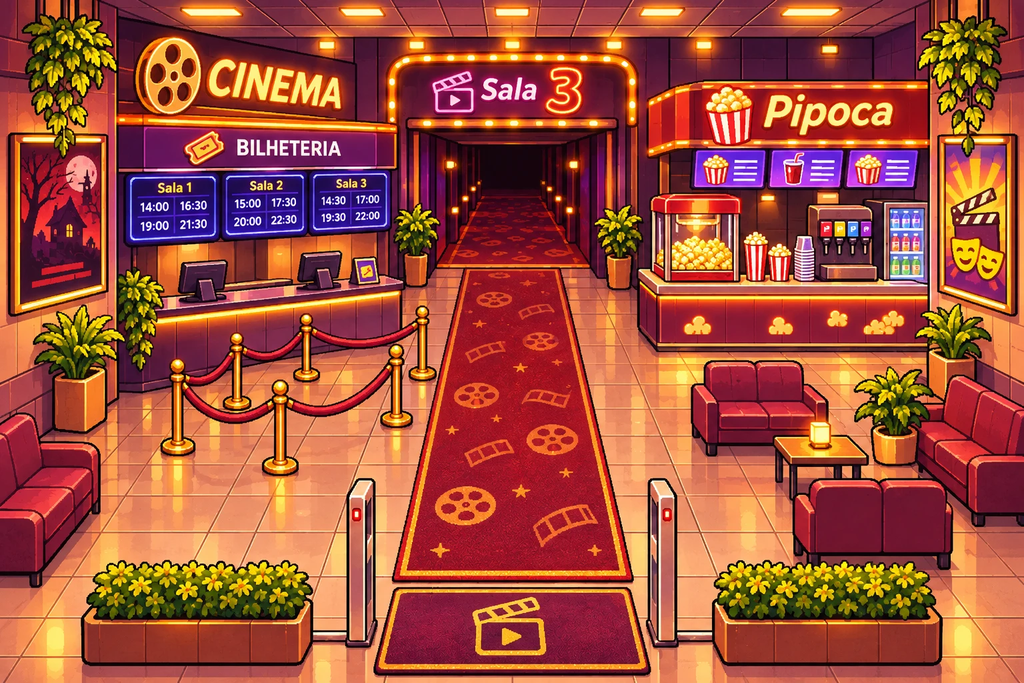
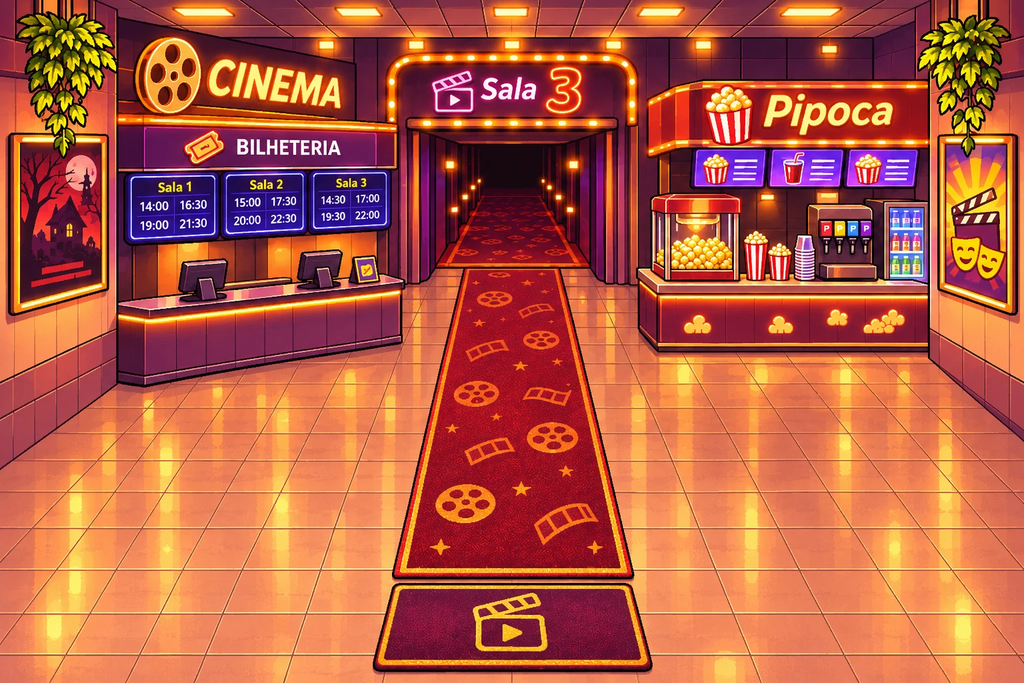
Cinema v2: cenário vazio + objetos da folha
Claude-Session: https://claude.ai/code/session_01PDyLU6Huw5amytFREh1vA2

diff --git a/backups/cinema-v1/cinema.map.ts b/backups/cinema-v1/cinema.map.ts
@@ -1,0 +1,176 @@
+import { T } from '@/world/tiles';
+import type { MapDef, TileRect } from '@/world/MapTypes';
+import type { Script } from '@/core/script';
+import { QuestSystem } from '@/systems/QuestSystem';
+
+const Q = 'dq-e3';
+/** Retângulo no cenário ORIGINAL (art-source/maps/duque-cinema.webp, 1536x1024). 48 px = 1 tile. */
+const R = (x0: number, y0: number, x1: number, y1: number): TileRect => ({ x: x0 / 48, y: y0 / 48, w: (x1 - x0) / 48, h: (y1 - y0) / 48 });
+
+const scripts: Record<string, Script> = {
+  async chegada(ctx) {
+    ctx.follow('weng', true);
+    if (ctx.flag('dq-cine-1')) return;
+    ctx.setFlag('dq-cine-1');
+    // chegam pelo corredor do shopping, lá embaixo
+    ctx.follow('weng', false);
+    ctx.place('player', 14.6, 18.6, 'up');
+    ctx.place('weng', 16.4, 18.6, 'up');
+    await ctx.narrate('Caxias Shopping. Sábado à noite.');
+    await ctx.say('bella', 'Cheiro de pipoca. Esse é o melhor cheiro do mundo.');
+    ctx.face('weng', 'bella');
+    await ctx.say('weng', 'Já comprei os ingressos. Sala 3, Five Nights at Freddy\'s.');
+    await ctx.emote('weng', 'sweat');
+    await ctx.say('weng', '(E ela não pode desconfiar de NADA do que vem depois.)');
+    ctx.face('player', 'weng');
+    await ctx.say('bella', 'Você tá estranho. Tá com medo do filme?');
+    await ctx.say('weng', 'Eu? Medo? De um urso animatrônico? ...Um pouco.');
+    ctx.follow('weng', true);
+    ctx.toast('Pegue a pipoca no balcão da direita');
+  },
+
+  async filme(ctx) {
+    ctx.objective(Q, 'filme');
+    await ctx.fadeOut(600);
+    ctx.letterbox(true);
+    await ctx.narrate('Sala 3. As luzes se apagam...');
+    ctx.shake(400);
+    ctx.sfx('cancel');
+    await ctx.say('bella', 'AAAAH! (aperta o braço do Weng)');
+    await ctx.say('weng', '(Ela tá segurando meu braço. Melhor filme da minha vida.)');
+    ctx.shake(300);
+    await ctx.say('bella', 'Não olha pra mim! Olha pro filme!');
+    await ctx.say('weng', 'Tem filme passando?');
+    await ctx.narrate('Duas horas, um balde de pipoca e quarenta e três apertões depois...');
+    ctx.letterbox(false);
+    ctx.place('player', 15.4, 8.6, 'right');
+    ctx.place('weng', 17.0, 8.6, 'left');
+    await ctx.fadeIn(600);
+    await ctx.say('weng', 'E aí? Deu medo?');
+    await ctx.say('bella', 'Medo nenhum. Eu só apertei o seu braço umas... quarenta vezes.');
+    await ctx.say('weng', 'Quarenta e três. Eu contei.');
+    await ctx.emote('bella', 'heart');
+    await ctx.say('bella', 'Bora tomar alguma coisa antes de ir embora?');
+    await ctx.emote('weng', 'sweat');
+    await ctx.say('weng', '(Ela não pode desconfiar de nada. Age normal, Weng. Normal.)');
+    ctx.follow('weng', true);
+    ctx.toast('Vá até a saída do cinema');
+  },
+
+  async saida(ctx) {
+    if (!QuestSystem.isActive(Q) || ctx.objectiveDone(Q, 'saida')) {
+      await ctx.teleport('duque-rua', 'from-multidao');
+      return;
+    }
+    if (!ctx.objectiveDone(Q, 'filme')) {
+      await ctx.say('bella', 'Ei! A gente nem viu o filme ainda. E a pipoca?!');
+      await ctx.move('player', ctx.playerTile().x, 18.4, 60);
+      return;
+    }
+    ctx.objective(Q, 'saida');
+    // a câmera sobe pra ver os dois acima da caixa de diálogo
+    const t = ctx.playerTile();
+    await ctx.frame(t.x, t.y, 400);
+    ctx.sfx('msg');
+    await ctx.emote('bella', 'exclaim');
+    await ctx.say('bella', 'Meu celular tá tocando. É a minha mãe.');
+    await ctx.say('mae-tel', 'BELLA! Vem pra casa AGORA! A sua irmã caiu da escada, rolou e saiu voando!');
+    await ctx.emote('bella', 'exclaim');
+    await ctx.say('bella', 'COMO ASSIM SAIU VOANDO, MÃE?!');
+    await ctx.say('mae-tel', '...E a sua avó também! Caiu da escada, rolou e saiu voando! As duas!');
+    await ctx.say('bella', 'As DUAS?! Mãe, que história é essa?!');
+    await ctx.say('mae-tel', 'Não discute! Vem logo, filha! Tchau!');
+    await ctx.emote('weng', 'sweat');
+    await ctx.say('weng', '(Sogra... criatividade nota mil. Credibilidade nota zero.)');
+    await ctx.say('bella', 'Ai, gente... tá bom. Tô indo.');
+    ctx.face('player', 'weng');
+    await ctx.emote('bella', 'sweat');
+    await ctx.say('bella', 'Desculpa, Weng. Logo hoje... eu tava tão feliz.');
+    await ctx.say('weng', 'Ei, relaxa. Eu te levo até em casa. Vai dar tudo certo.');
+    await ctx.emote('weng', 'note');
+    await ctx.say('weng', '(Vai dar MUITO certo.)');
+    await ctx.fadeOut(600);
+    await ctx.narrate('A Bella voltou pra Piabetá emburrada. O Weng, estranhamente tranquilo.');
+    ctx.objective(Q, 'casa');
+    await ctx.teleport('piabeta-casa-pedido', 'porta');
+  },
+
+  async bilheteria(ctx) {
+    await ctx.say('bella', 'Sala 3, sessão das 19:30. A gente escolheu a de terror. Corajosos.');
+  },
+  async pipoca(ctx) {
+    if (QuestSystem.isActive(Q) && !ctx.objectiveDone(Q, 'filme')) {
+      await ctx.say('atendente-cine', 'Boa noite! Vai querer qual?');
+      const c = await ctx.choose('bella', '(O balde é enorme...)', ['"Uma grande, com bastante manteiga!"', '"Uma grande e um refri de 1 litro!"']);
+      await ctx.say('atendente-cine', c === 0 ? 'Saindo uma grande, caprichada na manteiga!' : 'Grande e refrigerante gigante. Corajosos!');
+      ctx.sfx('pickup');
+      await ctx.emote('bella', 'heart');
+      await ctx.say('weng', 'Aposto que acaba antes do filme começar.');
+      await ctx.say('bella', 'Clássico.');
+      await ctx.say('weng', 'Bora? A sessão já vai começar.');
+      await scripts.filme(ctx);
+      return;
+    }
+    await ctx.say('weng', 'Pipoca grande. Que a gente comeu antes do filme começar.');
+    await ctx.say('bella', 'Clássico.');
+  },
+  async cartaz(ctx) {
+    await ctx.say('bella', 'Um cartaz de terror com uma casa mal-assombrada. Não, obrigada.');
+  },
+};
+
+/** 3º encontro — saguão do cinema do Caxias Shopping. */
+export const cinemaMap: MapDef = {
+  id: 'duque-cinema',
+  region: 'duque-de-caxias',
+  name: 'Cinema do Caxias Shopping',
+  indoor: true,
+  music: 'rota66',
+  background: '#2a1630',
+  art: 'native',
+  legend: { '.': T.WOOD },
+  ground: Array.from({ length: 22 }, () => '.'.repeat(32)),
+
+  blocks: [
+    R(0, 0, 1536, 398), // fundo: bilheteria, entrada da sala, pipoca
+    R(170, 380, 600, 585), // balcão da bilheteria
+    R(240, 470, 645, 690), // fila com cordões (só os pés dos pedestais)
+    R(955, 398, 1395, 528), // balcão da pipoca
+    R(50, 455, 185, 645), // planta da esquerda
+    R(0, 620, 150, 880), // sofá da esquerda
+    R(1385, 460, 1480, 600), // planta da direita
+    R(1285, 545, 1375, 695), // planta do meio
+    R(1035, 540, 1240, 680), // sofá de cima
+    R(1160, 650, 1300, 745), // mesinha
+    R(1190, 715, 1430, 850), // sofá de baixo
+    R(1375, 560, 1536, 790), // sofá do canto
+    R(120, 842, 470, 1024), // floreira da esquerda
+    R(1070, 842, 1410, 1024), // floreira da direita
+    // antifurto: só a base bloqueia; o resto fica na frente/atrás de quem passa (recorte)
+    R(515, 905, 565, 970),
+    R(970, 905, 1020, 970),
+    R(0, 880, 120, 1024),
+    R(1410, 850, 1536, 1024),
+  ],
+
+  overlays: [
+    { x0: 115, y0: 830, x1: 475, y1: 1000, base: 1000, cut: 'outline' },
+    { x0: 1065, y0: 830, x1: 1415, y1: 1000, base: 1000, cut: 'outline' },
+    { x0: 510, y0: 700, x1: 570, y1: 975, base: 970 },
+    { x0: 965, y0: 700, x1: 1025, y1: 975, base: 970 },
+    { x0: 1185, y0: 705, x1: 1435, y1: 855, base: 850, cut: 'outline' },
+  ],
+
+  hotspots: [
+    { rect: R(170, 330, 600, 590), interact: 'bilheteria', label: 'Bilheteria' },
+    { rect: R(955, 330, 1395, 530), interact: 'pipoca', label: 'Pipoca', markerIf: () => QuestSystem.isActive(Q) && !QuestSystem.isObjectiveDone(Q, 'filme') },
+    { rect: R(0, 200, 190, 660), interact: 'cartaz', label: 'Cartaz' },
+  ],
+
+  spawns: {
+    sala: { tx: 15.4, ty: 8.6, facing: 'down' },
+  },
+  triggers: [{ id: 'saida', rect: R(575, 965, 965, 1024), script: 'saida' }],
+  scripts,
+  onEnter: 'chegada',
+};

diff --git a/src/regions/duque/cinema.map.ts b/src/regions/duque/cinema.map.ts
@@ -4,7 +4,7 @@ import type { Script } from '@/core/script';
 import { QuestSystem } from '@/systems/QuestSystem';
 
 const Q = 'dq-e3';
-/** Retângulo no cenário ORIGINAL (art-source/maps/duque-cinema.webp, 1536x1024). 48 px = 1 tile. */
+/** Retângulo no cenário ORIGINAL (art-source/maps/duque-cinema-base.webp, 1536x1024). 48 px = 1 tile. */
 const R = (x0: number, y0: number, x1: number, y1: number): TileRect => ({ x: x0 / 48, y: y0 / 48, w: (x1 - x0) / 48, h: (y1 - y0) / 48 });
 
 const scripts: Record<string, Script> = {
@@ -131,34 +131,51 @@ export const cinemaMap: MapDef = {
   legend: { '.': T.WOOD },
   ground: Array.from({ length: 22 }, () => '.'.repeat(32)),
 
+  // v2: cenário vazio (art-source/maps/duque-cinema-base.webp) + objetos da folha (objects/cn-*).
+  // Versão anterior em backups/cinema-v1/.
   blocks: [
     R(0, 0, 1536, 398), // fundo: bilheteria, entrada da sala, pipoca
-    R(170, 380, 600, 585), // balcão da bilheteria
-    R(240, 470, 645, 690), // fila com cordões (só os pés dos pedestais)
+    R(170, 380, 605, 580), // balcão da bilheteria
     R(955, 398, 1395, 528), // balcão da pipoca
-    R(50, 455, 185, 645), // planta da esquerda
-    R(0, 620, 150, 880), // sofá da esquerda
-    R(1385, 460, 1480, 600), // planta da direita
-    R(1285, 545, 1375, 695), // planta do meio
-    R(1035, 540, 1240, 680), // sofá de cima
-    R(1160, 650, 1300, 745), // mesinha
-    R(1190, 715, 1430, 850), // sofá de baixo
-    R(1375, 560, 1536, 790), // sofá do canto
-    R(120, 842, 470, 1024), // floreira da esquerda
-    R(1070, 842, 1410, 1024), // floreira da direita
-    // antifurto: só a base bloqueia; o resto fica na frente/atrás de quem passa (recorte)
-    R(515, 905, 565, 970),
-    R(970, 905, 1020, 970),
-    R(0, 880, 120, 1024),
-    R(1410, 850, 1536, 1024),
+    R(0, 0, 40, 1024),
+    R(1500, 0, 1536, 1024),
+    R(250, 658, 370, 678),
+    R(459, 546, 631, 566),
+    R(417, 682, 599, 702),
+    R(518, 946, 562, 968),
+    R(973, 946, 1017, 968),
+    R(1050, 610, 1230, 658),
+    R(1206, 800, 1404, 848),
+    R(24, 735, 120, 785),
+    R(1420, 740, 1516, 790),
+    R(1184, 692, 1276, 718),
+    R(132, 905, 464, 1000),
+    R(1074, 905, 1406, 1000),
+    R(65, 617, 165, 645),
+    R(1395, 537, 1485, 565),
+    R(1293, 672, 1383, 700),
+    R(593, 404, 657, 432),
+    R(893, 404, 957, 432),
   ],
 
-  overlays: [
-    { x0: 115, y0: 830, x1: 475, y1: 1000, base: 1000, cut: 'outline' },
-    { x0: 1065, y0: 830, x1: 1415, y1: 1000, base: 1000, cut: 'outline' },
-    { x0: 510, y0: 700, x1: 570, y1: 975, base: 970 },
-    { x0: 965, y0: 700, x1: 1025, y1: 975, base: 970 },
-    { x0: 1185, y0: 705, x1: 1435, y1: 855, base: 850, cut: 'outline' },
+  objects: [
+    { key: 'cn-cordao', x: 310, y: 678, w: 125, shadow: 0.7 },
+    { key: 'cn-cordao', x: 545, y: 566, w: 180, shadow: 0.7 },
+    { key: 'cn-cordao', x: 508, y: 702, w: 190, shadow: 0.7 },
+    { key: 'cn-antifurto', x: 540, y: 968, w: 48, shadow: 0.7 },
+    { key: 'cn-antifurto', x: 995, y: 968, w: 48, shadow: 0.7, flip: true },
+    { key: 'cn-sofa', x: 1140, y: 658, w: 215, shadow: 0.7 },
+    { key: 'cn-sofa', x: 1305, y: 848, w: 235, shadow: 0.7 },
+    { key: 'cn-poltrona', x: 72, y: 785, w: 115, shadow: 0.7 },
+    { key: 'cn-poltrona', x: 1468, y: 790, w: 115, shadow: 0.7, flip: true },
+    { key: 'cn-mesinha', x: 1230, y: 718, w: 110, shadow: 0.7 },
+    { key: 'cn-floreira', x: 298, y: 1000, w: 345, shadow: false },
+    { key: 'cn-floreira', x: 1240, y: 1000, w: 345, shadow: false },
+    { key: 'cn-planta', x: 115, y: 645, w: 118, shadow: 0.7 },
+    { key: 'cn-planta', x: 1440, y: 565, w: 108, shadow: 0.7, flip: true },
+    { key: 'cn-planta', x: 1338, y: 700, w: 108, shadow: 0.7 },
+    { key: 'cn-planta', x: 625, y: 432, w: 76, shadow: 0.7 },
+    { key: 'cn-planta', x: 925, y: 432, w: 76, shadow: 0.7, flip: true },
   ],
 
   hotspots: [

diff --git a/src/config/assetManifest.ts b/src/config/assetManifest.ts
@@ -73,7 +73,7 @@ export const ASSETS: AssetEntry[] = [
 
   // Casal sentado no banco (4 quadros 200x150: normal, piscando, expressão, normal)
   // Mexicano v2 (dentro e fachada) e quintal: objetos recortados das folhas
-  ...['mx-mesa', 'mx-banqueta', 'mx-cacto', 'mx-cactoflor', 'mx-planta', 'mx-cabideiro', 'mxf-mesa', 'mxf-guardasol', 'mxf-cacto', 'mxf-flores', 'mxf-lousa', 'mxf-poste', 'mxf-banco', 'qt-mesa', 'qt-isopor', 'qt-varal', 'qt-abacateiro', 'qt-vaso', 'qt-floreira', 'qt-moita', 'ap-sofa', 'ap-mesinha', 'ap-mesa', 'ap-tv', 'ap-abajur', 'ap-arranhador', 'ap-cesto', 'ap-planta', 'ap-vasinho'].map(
+  ...['mx-mesa', 'mx-banqueta', 'mx-cacto', 'mx-cactoflor', 'mx-planta', 'mx-cabideiro', 'mxf-mesa', 'mxf-guardasol', 'mxf-cacto', 'mxf-flores', 'mxf-lousa', 'mxf-poste', 'mxf-banco', 'qt-mesa', 'qt-isopor', 'qt-varal', 'qt-abacateiro', 'qt-vaso', 'qt-floreira', 'qt-moita', 'ap-sofa', 'ap-mesinha', 'ap-mesa', 'ap-tv', 'ap-abajur', 'ap-arranhador', 'ap-cesto', 'ap-planta', 'ap-vasinho', 'cn-cordao', 'cn-poste', 'cn-antifurto', 'cn-sofa', 'cn-poltrona', 'cn-mesinha', 'cn-floreira', 'cn-planta'].map(
     (n, i): AssetEntry => ({ id: `OBJ-MXQ-${i}`, key: n, file: `assets/objects/${n}.png`, kind: 'image' }),
   ),
   // Casa da Bella v2: objetos recortados da folha

diff --git a/docs/ASSET_MANIFEST.md b/docs/ASSET_MANIFEST.md
@@ -202,3 +202,5 @@ Ordem: gerar primeiro a base (anexando a Rota 66 atual como referência de estil
 | OBJ-QT | Folha de objetos do quintal | objects/quintal-folha.webp → qt-* | ✅ recortada (aguardando o quintal vazio) |
 | MAP-026 | Quintal vazio | maps/piabeta-quintal-base.png | pedido |
 | MG-CH | Churrasco: carnes (4 tipos x 4 estados), grelha, bandeja (fundo magenta) | minigames/churrasco-*.png | pedido |
+| MAP-027 | Cinema vazio | maps/duque-cinema-base.webp | ✅ no jogo |
+| OBJ-CN | Folha de objetos do cinema | objects/cinema-folha.webp → cn-* | ✅ no jogo |
